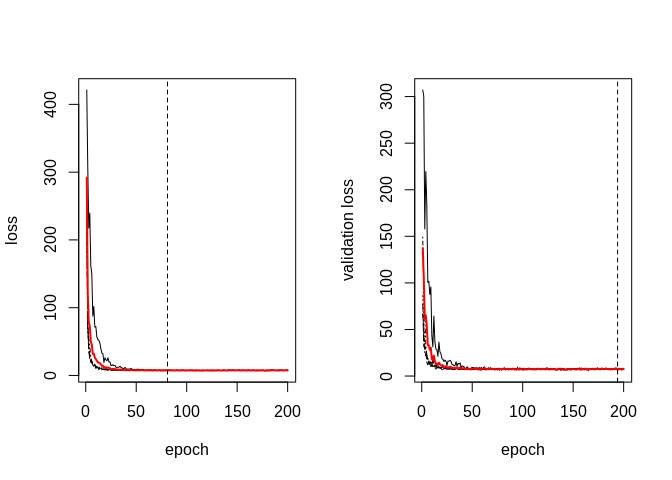
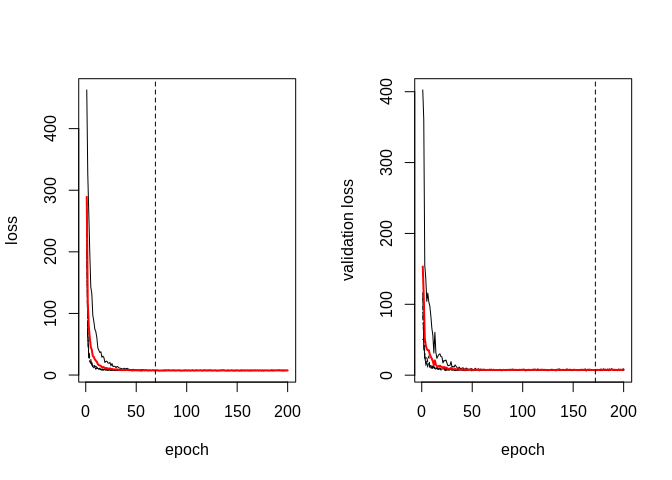
fix issue with zip

diff --git a/README.md b/README.md
@@ -288,15 +288,15 @@ cvres <- mod %>% cv(cv_folds = 5, epochs=200)
 ```
 
     ## Fitting Fold  1  ... 
-    ## Done in 19.07667  secs 
+    ## Done in 23.99185  secs 
     ## Fitting Fold  2  ... 
-    ## Done in 18.89088  secs 
+    ## Done in 22.7258  secs 
     ## Fitting Fold  3  ... 
-    ## Done in 19.55833  secs 
+    ## Done in 22.40189  secs 
     ## Fitting Fold  4  ... 
-    ## Done in 18.8796  secs 
+    ## Done in 22.64071  secs 
     ## Fitting Fold  5  ... 
-    ## Done in 18.9857  secs
+    ## Done in 25.60842  secs
 
 ![](README_files/figure-gfm/unnamed-chunk-7-1.png)<!-- -->
 
@@ -980,15 +980,15 @@ cvres <- mod %>% cv(epochs = 500, cv_folds = 5)
 ```
 
     ## Fitting Fold  1  ... 
-    ## Done in 24.78617  secs 
+    ## Done in 28.86721  secs 
     ## Fitting Fold  2  ... 
-    ## Done in 24.13162  secs 
+    ## Done in 27.3825  secs 
     ## Fitting Fold  3  ... 
-    ## Done in 24.53428  secs 
+    ## Done in 27.53193  secs 
     ## Fitting Fold  4  ... 
-    ## Done in 23.95275  secs 
+    ## Done in 28.02738  secs 
     ## Fitting Fold  5  ... 
-    ## Done in 23.79912  secs
+    ## Done in 27.25356  secs
 
 ![](README_files/figure-gfm/unnamed-chunk-14-1.png)<!-- -->
 
@@ -999,19 +999,19 @@ coefinput <- unlist(mod$model$get_weights())
 (means <- coefinput[c(2:4)])
 ```
 
-    ## [1]  1.1017616 -0.7828224 -1.4577916
+    ## [1] -0.9045686 -0.4470975  1.2735463
 
 ``` r
 (stds <- exp(coefinput[c(5:7)]))
 ```
 
-    ## [1] 0.5477579 0.3200957 0.9883890
+    ## [1] 0.2065582 0.5718664 0.4250811
 
 ``` r
 (pis <- softmax(coefinput[8:10]*coefinput[1]))
 ```
 
-    ## [1] 0.4204461 0.5662173 0.0133366
+    ## [1] 0.3258473 0.3298024 0.3443503
 
 ``` r
 library(distr)
